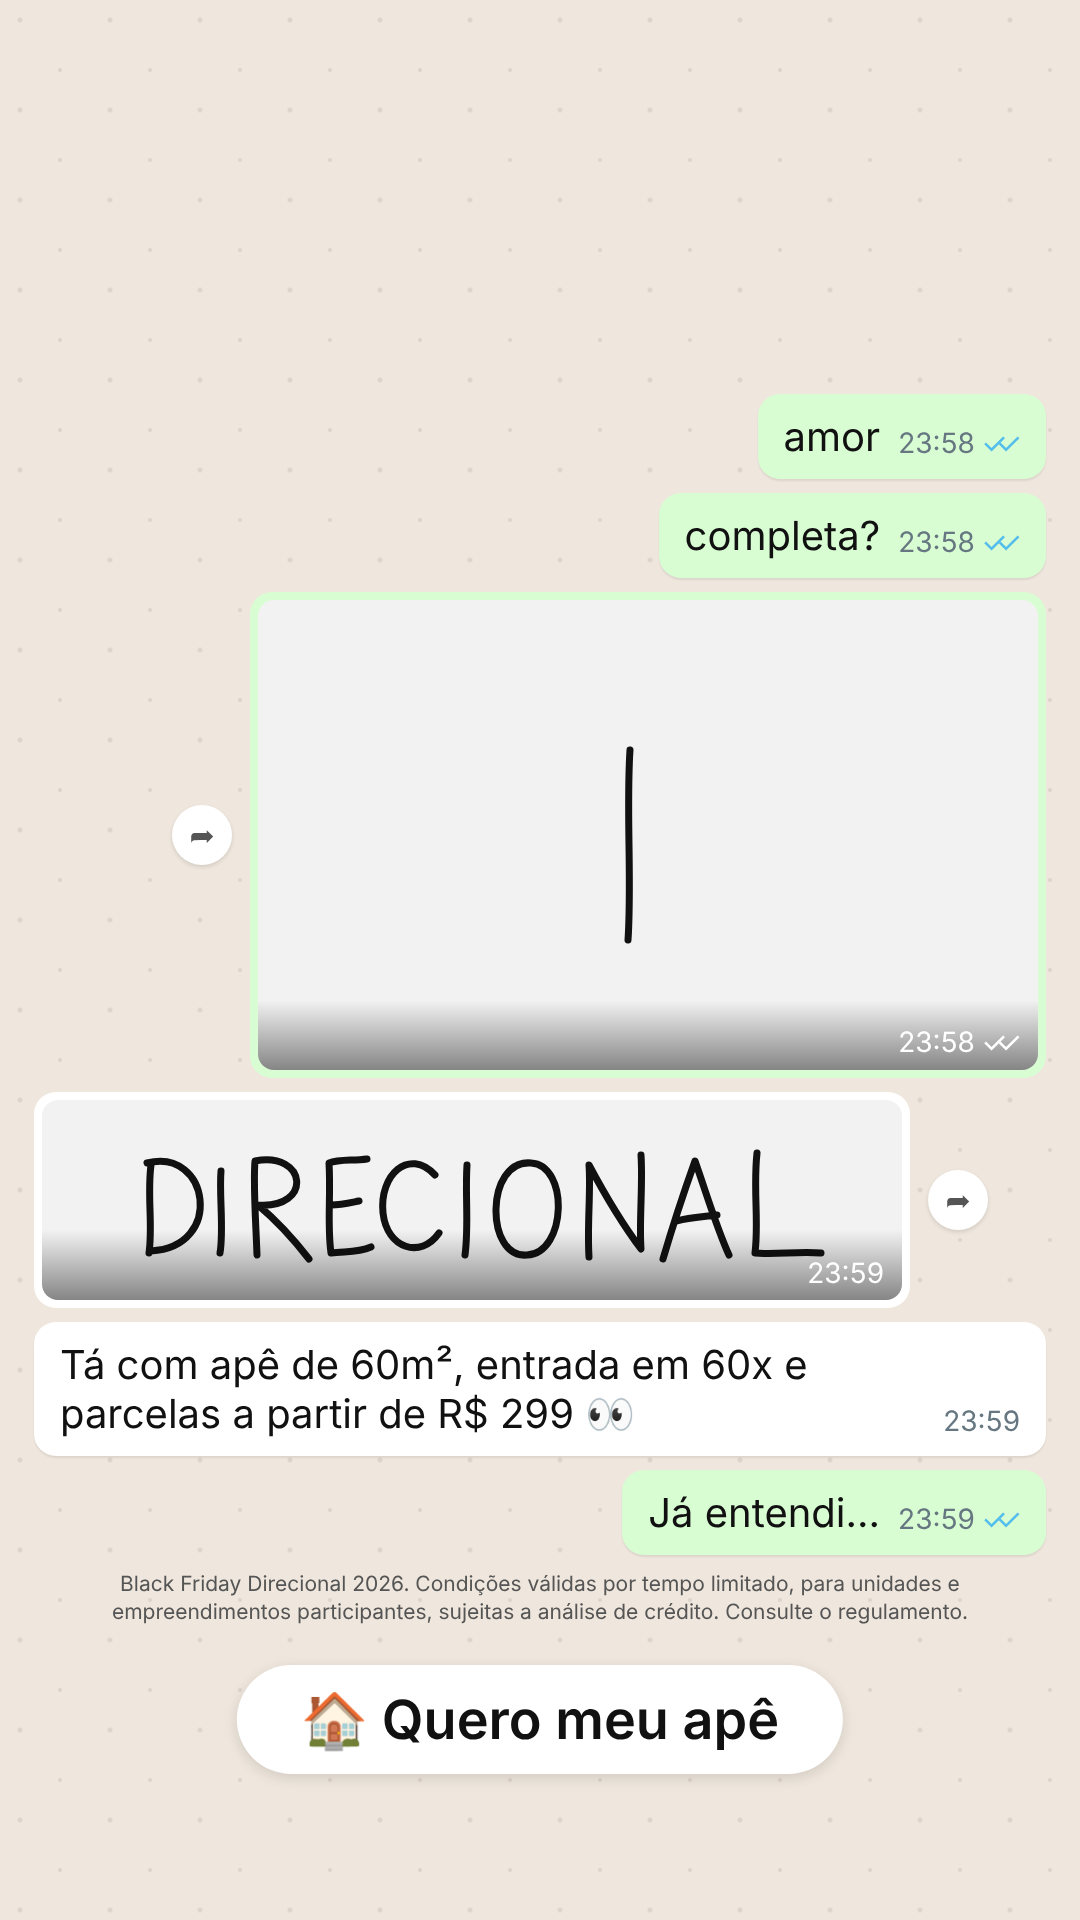
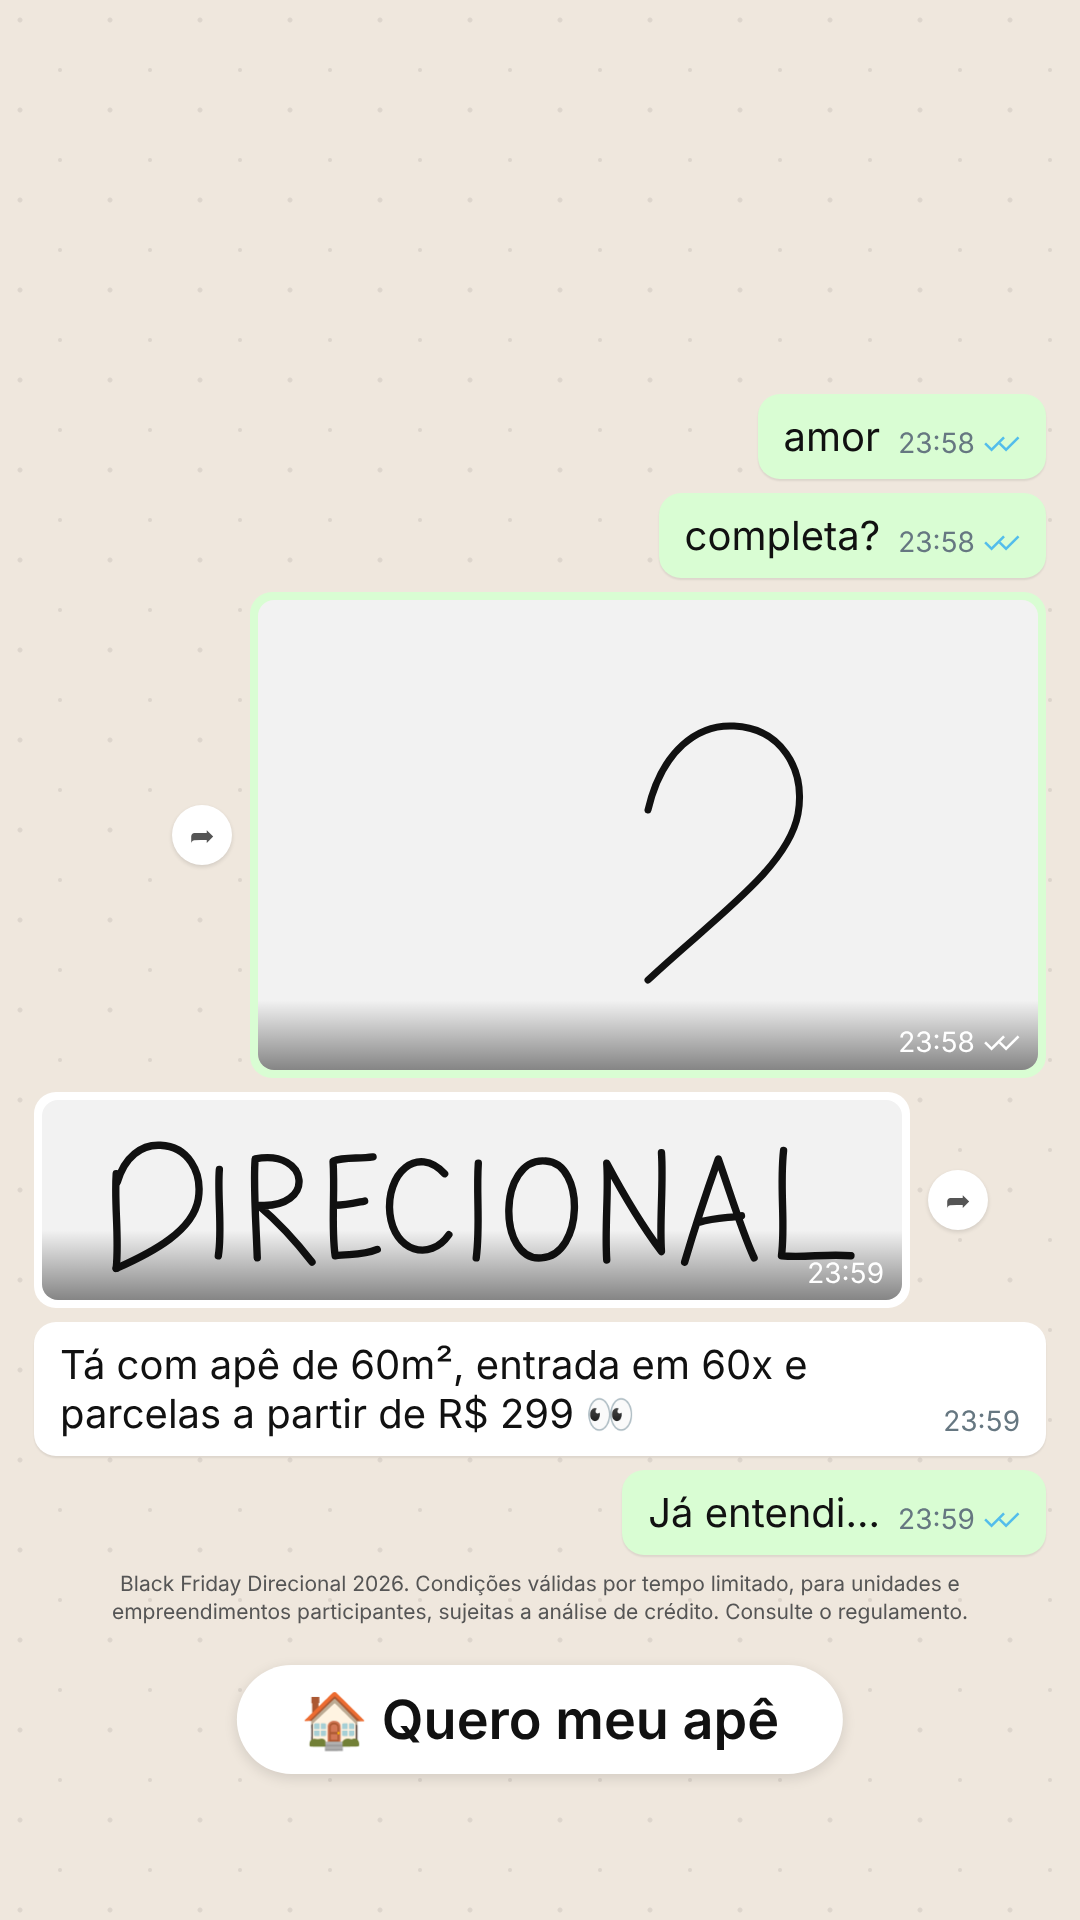
Criativo Direcional: meio coração vira o D de DIRECIONAL
Claude-Session: https://claude.ai/code/session_011r6qJb3YirRZ5ih8PV82Qe

diff --git a/criativos/direcional-black-friday/story.html b/criativos/direcional-black-friday/story.html
@@ -36,7 +36,7 @@ svg path{fill:none;stroke:#111;stroke-width:7;stroke-linecap:round;stroke-linejo
   <div class="row out"><div class="fwd">➦</div>
     <div class="img"><div class="canvas" style="width:780px;height:470px">
       <svg width="780" height="470" viewBox="0 0 780 470">
-        <path d="M372 150 C 368 210, 374 280, 370 340"/>
+        <path d="M390 210 C 404 150, 440 124, 476 126 C 522 128, 548 168, 540 214 C 530 268, 456 318, 390 380"/>
       </svg>
       <span class="t">23:58 <span class="ticks" style="color:#fff">✓✓</span></span>
     </div></div>
@@ -44,8 +44,8 @@ svg path{fill:none;stroke:#111;stroke-width:7;stroke-linecap:round;stroke-linejo
 
   <div class="row in">
     <div class="img"><div class="canvas" style="width:860px;height:200px">
-      <svg width="860" height="200" viewBox="-40 -25 790 200" preserveAspectRatio="xMidYMid meet">
-        <path d="M34 40 C 30 70, 36 100, 32 128 M30 38 C 92 22, 108 122, 34 126"/>
+      <svg width="860" height="200" viewBox="-30 -20 800 190" preserveAspectRatio="xMidYMid meet">
+        <path d="M32 50 C 30 80, 35 110, 32 140"/><path d="M33 58 C 40 34, 56 22, 74 23 C 100 24, 114 48, 110 74 C 105 104, 68 124, 32 140"/><g transform="translate(26,0)">
         <path d="M104 46 C 102 70, 107 104, 103 128"/>
         <path d="M140 130 C 139 100, 136 60, 138 36 C 190 26, 196 84, 141 80 C 160 96, 175 112, 192 134"/>
         <path d="M250 34 C 236 36, 222 34, 212 38 C 214 70, 210 100, 214 128 C 228 126, 240 128, 254 122 M214 80 C 224 80, 232 78, 242 76"/>
@@ -54,7 +54,7 @@ svg path{fill:none;stroke:#111;stroke-width:7;stroke-linecap:round;stroke-linejo
         <path d="M414 38 C 368 34, 368 134, 410 130 C 450 128, 452 40, 414 38"/>
         <path d="M472 132 C 470 100, 474 66, 472 40 C 488 70, 506 100, 524 124 C 522 96, 526 60, 524 30"/>
         <path d="M546 134 C 556 100, 568 64, 578 36 C 590 70, 600 104, 612 130 M560 96 C 574 92, 586 92, 600 90"/>
-        <path d="M640 28 C 636 64, 642 96, 638 128 C 660 130, 680 126, 704 128"/>
+        <path d="M640 28 C 636 64, 642 96, 638 128 C 660 130, 680 126, 704 128"/></g>
       </svg>
       <span class="t">23:59</span>
     </div></div>
